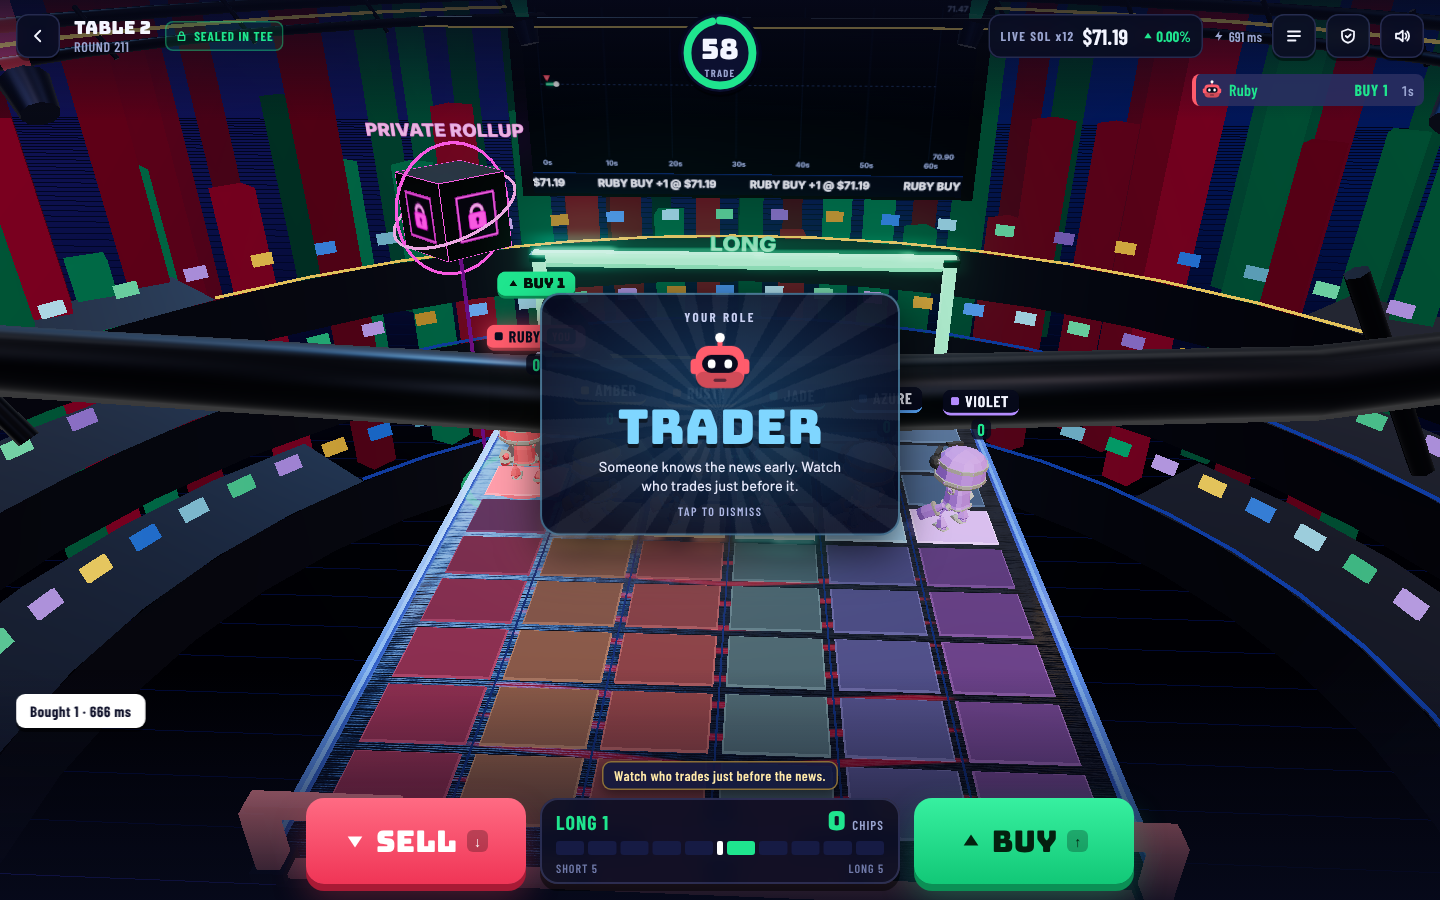
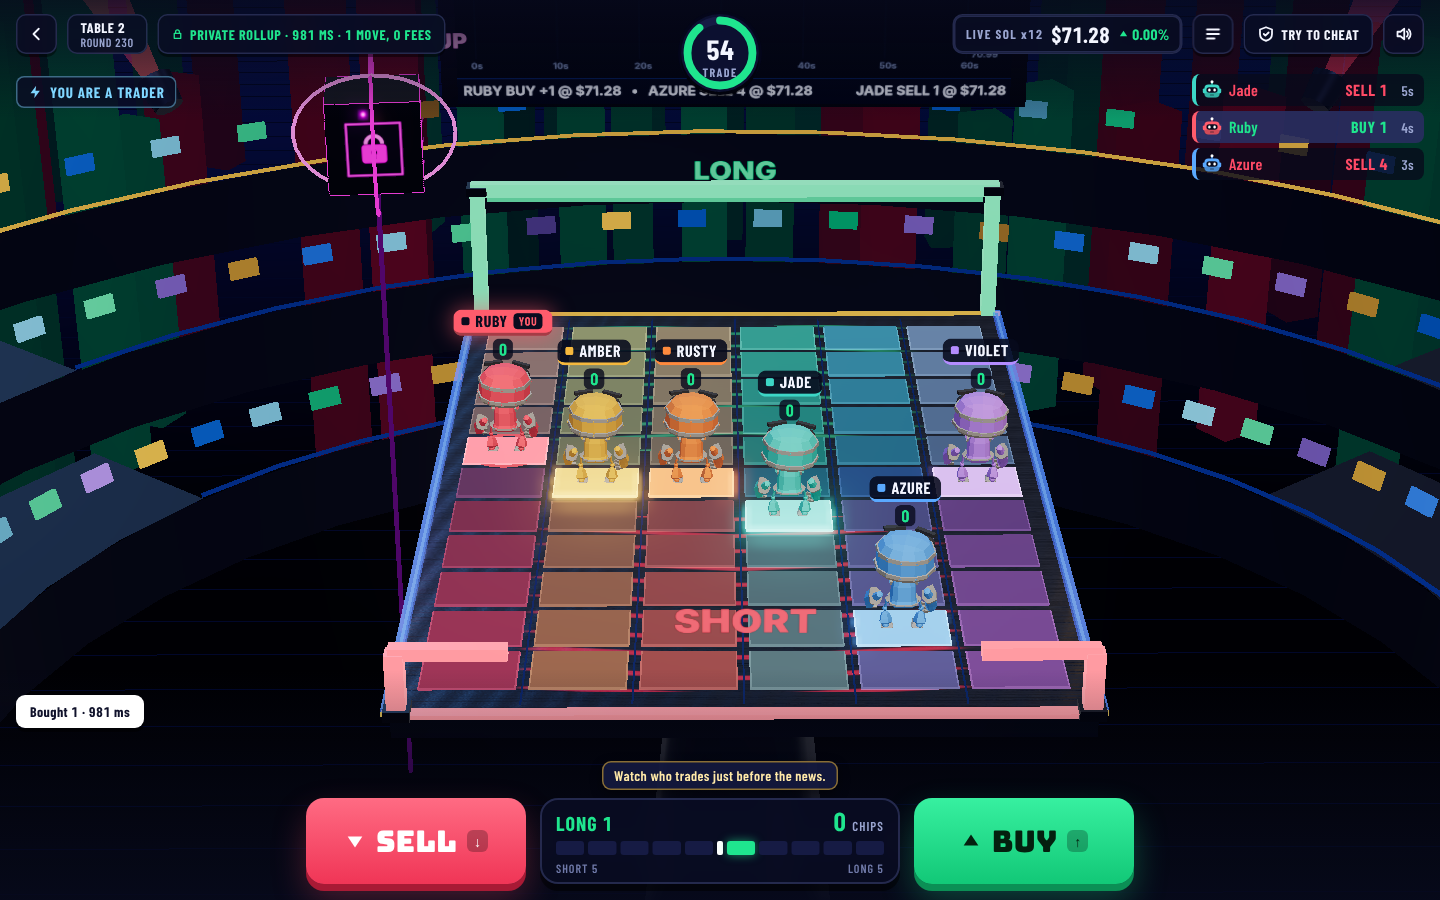
Fix live camera and truss occlusion

diff --git a/app/src/Scene3D.ts b/app/src/Scene3D.ts
@@ -478,6 +478,8 @@ export class Scene3D {
   private audience!: THREE.InstancedMesh;
   private audienceColors: THREE.Color[] = [];
   private audienceTimer = 0;
+  private overheadTruss!: THREE.Mesh;
+  private overheadGoldTruss!: THREE.Mesh;
   private pitInner!: THREE.InstancedMesh;
   private pitOuter!: THREE.InstancedMesh;
   private beams: MovingBeam[] = [];
@@ -620,6 +622,8 @@ export class Scene3D {
     this.shortChevMat = new THREE.MeshBasicMaterial({ map: this.shortChevTex, transparent: true, opacity: 0.28, blending: THREE.AdditiveBlending, depthWrite: false, toneMapped: false });
 
     const darkMetalGeos: THREE.BufferGeometry[] = [];
+    const trussGeos: THREE.BufferGeometry[] = [];
+    const goldTrussGeos: THREE.BufferGeometry[] = [];
     const buildGate = (z: number, hex: number, text: string, near: boolean) => {
       const m = new THREE.MeshStandardMaterial({ color: 0x070a14, emissive: hex, emissiveIntensity: 1.5, roughness: 0.4, metalness: 0.6 });
       if (near) this.shortGateMat = m; else this.longGateMat = m;
@@ -642,7 +646,7 @@ export class Scene3D {
       }
       g.add(new THREE.Mesh(mergeParts(gateGeos), m));
       const sign = new THREE.Mesh(new THREE.PlaneGeometry(4.0, 0.9), label(text, "#" + new THREE.Color(hex).getHexString()));
-      if (near) { sign.rotation.x = -Math.PI / 2; sign.position.set(0, 0.035, 8.75); sign.scale.setScalar(0.8); }
+      if (near) sign.position.set(0, 2.05, z + 0.3);
       else sign.position.set(0, 3.65, z);
       g.add(sign);
 
@@ -700,12 +704,12 @@ export class Scene3D {
     // Overhead truss ring, cross-bridge over the jumbotron, and 4 moving-head spotlight fixtures.
     const trussY = 10.15;
     const trussMat = new THREE.MeshStandardMaterial({ color: 0x1a2342, roughness: 0.42, metalness: 0.85 });
-    darkMetalGeos.push(
+    trussGeos.push(
       placed(new THREE.TorusGeometry(15.2, 0.16, 6, 32).rotateX(Math.PI / 2), 0, trussY, 0),
       placed(new THREE.TorusGeometry(14.1, 0.13, 6, 32).rotateX(Math.PI / 2), 0, trussY - 0.55, 0),
       placed(new THREE.BoxGeometry(18.5, 0.22, 0.28), 0, trussY - 0.55, -10.8),
     );
-    goldArenaGeos.push(
+    goldTrussGeos.push(
       placed(new THREE.TorusGeometry(14.65, 0.045, 6, 32).rotateX(Math.PI / 2), 0, trussY - 0.3, 0),
       placed(new THREE.BoxGeometry(18.5, 0.05, 0.32), 0, trussY - 0.68, -10.8),
     );
@@ -714,7 +718,7 @@ export class Scene3D {
     const strutGeo = new THREE.CylinderGeometry(0.06, 0.06, 1.25, 6);
     for (let i = 0; i < strutCount; i++) {
       const a = (i / strutCount) * Math.PI * 2;
-      darkMetalGeos.push(placed(strutGeo, Math.sin(a) * 14.65, trussY - 0.28, Math.cos(a) * 14.65, 0, -a, 0.55));
+      trussGeos.push(placed(strutGeo, Math.sin(a) * 14.65, trussY - 0.28, Math.cos(a) * 14.65, 0, -a, 0.55));
     }
 
     const headGeo = new THREE.CylinderGeometry(0.28, 0.36, 0.6, 10);
@@ -780,7 +784,14 @@ export class Scene3D {
     darkMetalGeos.push(placed(new THREE.BoxGeometry(14.4, 6.15, 0.52), 0, 7.35, -12.92));
     goldArenaGeos.push(placed(new THREE.BoxGeometry(14.5, 0.09, 0.56), 0, 10.42, -12.9));
     for (const sx of [-5.8, 5.8]) darkMetalGeos.push(placed(new THREE.CylinderGeometry(0.11, 0.11, 2.4, 6), sx, 9.6, -12.92));
-    this.scene.add(new THREE.Mesh(mergeParts(darkMetalGeos), frameMat), new THREE.Mesh(mergeParts(goldArenaGeos), goldTrimMat));
+    this.overheadTruss = new THREE.Mesh(mergeParts(trussGeos), frameMat);
+    this.overheadGoldTruss = new THREE.Mesh(mergeParts(goldTrussGeos), goldTrimMat);
+    this.scene.add(
+      new THREE.Mesh(mergeParts(darkMetalGeos), frameMat),
+      new THREE.Mesh(mergeParts(goldArenaGeos), goldTrimMat),
+      this.overheadTruss,
+      this.overheadGoldTruss,
+    );
     this.tickerCanvas.width = 1024;
     this.tickerCanvas.height = 56;
     this.tickerTex = new THREE.CanvasTexture(this.tickerCanvas);
@@ -1243,6 +1254,8 @@ export class Scene3D {
     this.vaultTag.visible = !(portrait && (stage === "live" || stage === "vote" || stage === "reveal"));
     const meX = v && v.me >= 0 ? laneX(v.me) : 0, me = v && v.me >= 0 ? this.bots[v.me] : undefined;
     let fov = 50;
+    this.overheadTruss.visible = stage !== "live" || portrait;
+    this.overheadGoldTruss.visible = stage !== "live" || portrait;
     if (this.orbit) {
       const sw = Math.sin(t * 0.14) * 0.65;
       if (portrait) {
@@ -1260,9 +1273,9 @@ export class Scene3D {
         this.camPos.set(0, last ? 9.6 : 9.9, 23.2 + z * 0.4);
         this.camLook.set(0, 1.15, 0);
       } else {
-        this.camPos.set(meX * 0.12, 10.6, 22.4 + z);
-        this.camLook.set(meX * 0.08, 0.95, 3.5);
-        fov = last ? 49.5 : 49;
+        this.camPos.set(meX * 0.12, 23.73, 50 + z);
+        this.camLook.set(meX * 0.08, 0.95, 0.4);
+        fov = last ? 19.6 : 19.4;
       }
     } else if (stage === "deal" && me) {
       this.camPos.set(meX + 1.6, 2.3, -4.6 * a);
